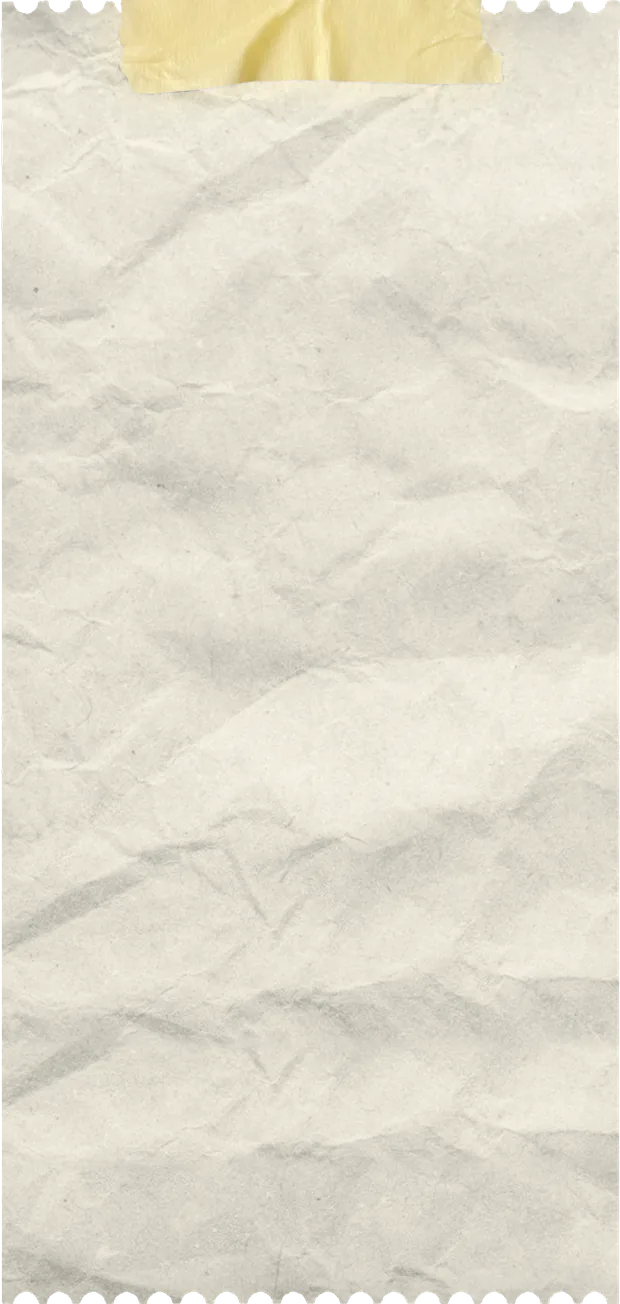
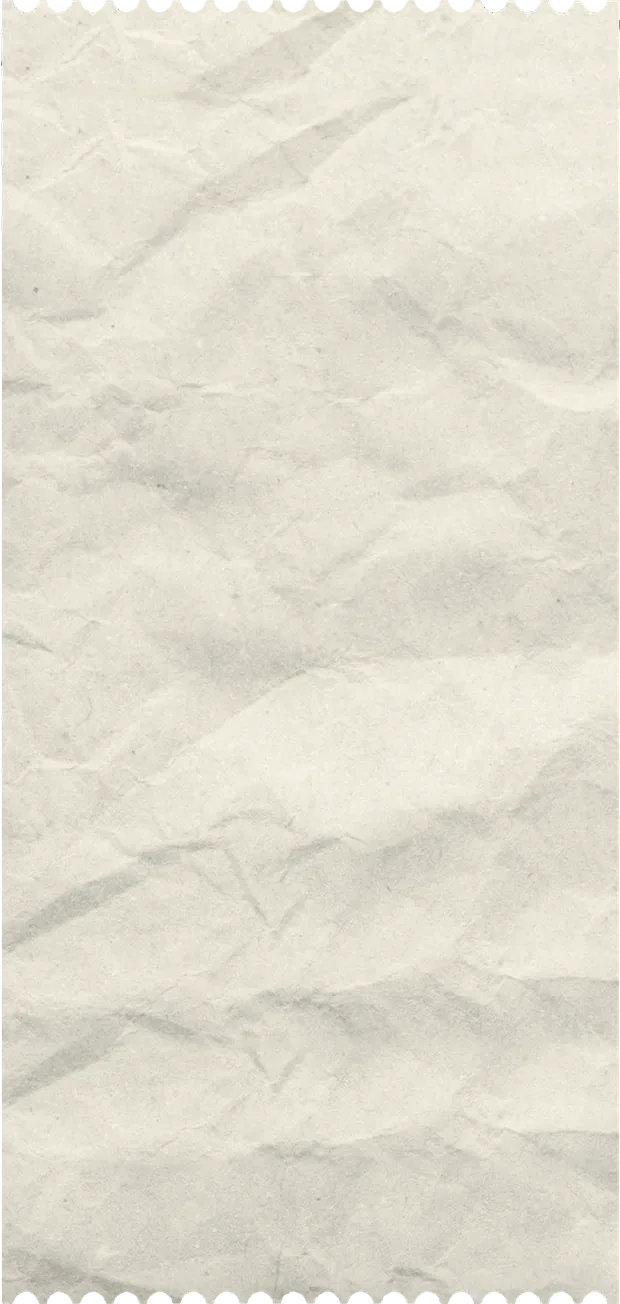
Real tape, three ways; Calendly loads sooner (#40)
Three strips cut from the full Canva tape with real torn ends (cut ends
traced from the photo's own tear). Each placement is skewed, off-center and
overhangs the edge. Tape removed from the polaroids and the second corner of
the quote sheet. The service ticket's baked-in, flat-cropped tape is gone;
its top perforations are restored from the ticket's own bottom edge.

Contact: the Calendly iframe is inserted at page load (no widget script
fetch, no scroll wait) with preconnect to calendly.com; first render 0.6 to
1s sooner in testing.

Claude-Session: https://claude.ai/code/session_011WjVxdgdgLvo2MdPv2oRQF

Changed region(s): [[0.0, 0.0, 0.95, 0.092]]

diff --git a/assets/site.css b/assets/site.css
@@ -1677,11 +1677,10 @@ footer{background:var(--ink)}
   box-shadow:0 1px 0 rgba(44,45,54,.08),0 30px 60px -28px rgba(44,45,54,.3),0 10px 22px -12px rgba(44,45,54,.12);
   font-variant-numeric:tabular-nums;position:relative;
 }
-/* two pieces of the same yellow tape as the homepage card hold the sheet up */
-.sheet::before,.sheet::after{content:"";position:absolute;top:0;width:clamp(78px,11vw,110px);aspect-ratio:500/154;
-  background:url(../images/tape-yellow.webp) center/100% 100% no-repeat;filter:drop-shadow(0 1px 1px rgba(44,45,54,.14));pointer-events:none}
-.sheet::before{left:clamp(14px,4vw,40px);transform:translateY(-45%) rotate(-4deg)}
-.sheet::after{right:clamp(14px,4vw,40px);transform:translateY(-45%) rotate(3.5deg) scaleX(-1)}
+/* one strip of tape across the top-left corner holds the sheet up */
+.sheet::before{content:"";position:absolute;top:0;left:0;width:clamp(120px,17vw,170px);aspect-ratio:430/130;pointer-events:none;
+  background:url(../images/tape-a.webp) center/100% 100% no-repeat;filter:drop-shadow(0 2px 2px rgba(44,45,54,.16));
+  transform:translate(-26%,-10%) rotate(-31deg)}
 .sh-head{
   display:grid;grid-template-columns:1fr auto;gap:24px 40px;align-items:end;
   padding-bottom:22px;border-bottom:1px solid var(--ink);margin-bottom:8px;
@@ -1855,7 +1854,7 @@ footer{background:var(--ink)}
   .crumbs{display:none}
   .pricing{padding:0}
   .sheet{max-width:none;margin:0;padding:0;box-shadow:none;background:#fff}
-  .sheet::before,.sheet::after{display:none}
+  .sheet::before{display:none}
   .sh-item{break-inside:avoid;padding:12px 0 13px}
   .sh-inc{gap:3px 20px;font-size:11.5px}
   .sh-desc{font-size:11.5px}
@@ -2035,7 +2034,7 @@ footer{background:var(--ink)}
   background:repeating-linear-gradient(to bottom,transparent 0 calc(var(--rule) - 1.6px),rgba(132,178,160,.72) calc(var(--rule) - 1.6px) var(--rule))}
 .hero-look::after{content:"";position:absolute;left:0;right:0;height:1.8px;top:calc(var(--pt) + var(--rule) - var(--lift) - 1px);z-index:0;pointer-events:none;background:rgba(228,86,112,.82)}
 .hero-look>*{position:relative;z-index:1}
-.hl-tape{position:absolute!important;left:31%;top:0;width:37.3%;aspect-ratio:500/154;transform:translateY(-40%);background:url(../images/tape-yellow.webp) center/100% 100% no-repeat;filter:drop-shadow(0 1px 1px rgba(44,45,54,.14));z-index:2!important}
+.hl-tape{position:absolute!important;left:13%;top:0;width:29%;aspect-ratio:240/130;transform:translateY(-56%) rotate(-7deg);background:url(../images/tape-b.webp) center/100% 100% no-repeat;filter:drop-shadow(0 2px 2px rgba(44,45,54,.16));z-index:2!important}
 .hl-k{font-family:var(--sans);font-size:10.5px;font-weight:600;letter-spacing:.28em;text-transform:uppercase;color:#a53c25;margin:0;line-height:var(--rule);height:var(--rule)}
 .hl-h{font-family:var(--serif-d);font-style:italic;font-weight:400;font-size:24px;line-height:var(--rule);color:var(--ink);margin:0;top:-2px}
 .hl-p{font-size:14.5px;line-height:var(--rule);color:#3d3e48;margin:0}
@@ -2145,7 +2144,7 @@ footer{background:var(--ink)}
   body.is-printing #printArea .rc-contact{display:block;margin-top:18px;text-align:center;font-size:10px;letter-spacing:.08em;color:#555}
   body.is-printing #printArea .rc-print,body.is-printing #printArea .sh-print{display:none}
   body.is-printing #printArea .sheet{width:640px}
-  body.is-printing #printArea .sheet::before,body.is-printing #printArea .sheet::after{display:none}
+  body.is-printing #printArea .sheet::before,body.is-printing #printArea .ticket::before{display:none}
   @page{margin:14mm}
 }
 .sh-print{margin-top:18px}
@@ -2339,8 +2338,9 @@ footer{background:var(--ink)}
 .ticket-wrap{position:relative}
 .ticket-wrap{container-type:inline-size;filter:drop-shadow(0 18px 20px rgba(44,45,54,.16)) drop-shadow(0 1px 1px rgba(44,45,54,.1))}
 /* a real perforated ticket (photo): taped top and perforated bottom hold their shape, the middle stretches */
-.ticket{position:relative;padding:calc(15.8cqw + 4px) 30px calc(4.2cqw + 22px);transform:rotate(-.6deg);
-  border-style:solid;border-width:0;border-image:url(../images/ticket-paper.webp) 98 0 26 0 fill / 15.8cqw 0 4.2cqw 0 stretch}
+.ticket{position:relative;padding:calc(4.2cqw + 30px) 30px calc(4.2cqw + 22px);transform:rotate(-.6deg);
+  border-style:solid;border-width:0;border-image:url(../images/ticket-paper.webp) 26 0 26 0 fill / 4.2cqw 0 4.2cqw 0 stretch}
+.ticket::before{content:"";position:absolute;top:0;right:13%;width:36%;max-width:170px;aspect-ratio:262/130;transform:translateY(-58%) rotate(5deg);background:url(../images/tape-c.webp) center/100% 100% no-repeat;pointer-events:none}
 .tk-head{display:flex;justify-content:space-between;gap:18px;align-items:flex-end;padding-bottom:14px;border-bottom:1px solid var(--ink)}
 .tk-k{display:block;font-family:var(--sans);font-weight:600;font-size:10px;letter-spacing:.3em;text-transform:uppercase;color:var(--forest-2);margin-bottom:6px}
 .tk-t{display:block;font-family:var(--serif-d);font-weight:400;font-size:clamp(20px,1.8vw,24px);line-height:1.1;color:var(--ink)}
@@ -2357,7 +2357,7 @@ footer{background:var(--ink)}
 .tk-total strong{font-family:var(--serif-d);font-size:26px;letter-spacing:0;color:var(--forest)}
 .tk-stamp{display:inline-block;white-space:nowrap;padding:6px 12px;border:2px solid #b8432a;outline:1px solid #b8432a;outline-offset:2px;color:#b8432a;font-family:var(--sans);font-weight:600;font-size:12px;letter-spacing:.32em;text-transform:uppercase;transform:rotate(-8deg);opacity:.82;mix-blend-mode:multiply}
 .tk-note{margin:16px 0 0;font-size:13px;color:var(--ink-m);line-height:1.6;font-style:italic;font-family:var(--serif)}
-@media(max-width:900px){.ticket{transform:none;padding:calc(15.8cqw + 2px) 20px calc(4.2cqw + 18px)}.tk-total{gap:10px;font-size:9px;letter-spacing:.22em}.tk-total strong{font-size:22px}.tk-stamp{font-size:10px;letter-spacing:.22em;padding:5px 9px}.tk-head{flex-direction:column;align-items:flex-start}.tk-meta{text-align:left}.tk-meta div{justify-content:flex-start}}
+@media(max-width:900px){.ticket{transform:none;padding:calc(4.2cqw + 26px) 20px calc(4.2cqw + 18px)}.tk-total{gap:10px;font-size:9px;letter-spacing:.22em}.tk-total strong{font-size:22px}.tk-stamp{font-size:10px;letter-spacing:.22em;padding:5px 9px}.tk-head{flex-direction:column;align-items:flex-start}.tk-meta{text-align:left}.tk-meta div{justify-content:flex-start}}
 @media(prefers-reduced-motion:reduce){.ticket{transform:none}}
 @media print{.ticket{transform:none;box-shadow:none;border-image:none;padding:20px}.ticket-wrap{filter:none}}
 

diff --git a/contact/index.html b/contact/index.html
@@ -22,9 +22,9 @@
 <link rel="apple-touch-icon" sizes="180x180" href="../apple-touch-icon.png"/>
 <link rel="preload" href="../fonts/jost-latin-600-normal.woff2" as="font" type="font/woff2" crossorigin>
 <link rel="preload" href="../fonts/jost-latin-400-normal.woff2" as="font" type="font/woff2" crossorigin>
+<link rel="preconnect" href="https://calendly.com"/>
 <link rel="preconnect" href="https://assets.calendly.com" crossorigin/>
-<link rel="dns-prefetch" href="//calendly.com"/>
-<link rel="stylesheet" href="../assets/site.css?v=202611080841"/>
+<link rel="stylesheet" href="../assets/site.css?v=202611080849"/>
 </head>
 <body>
 
@@ -299,15 +299,21 @@ if(form){
   try{var q=new URLSearchParams(location.search).get('site');if(q&&siteIn){q=q.trim();if(!/^https?:\/\//i.test(q))q='https://'+q;siteIn.value=q;if(proj){proj.value='Free look at my current site';syncCheck();}setTimeout(function(){var n=form.querySelector('input[name="Name"]');if(n)n.focus({preventScroll:true});},120);}}catch(x){}
   fromHash();window.addEventListener('hashchange',fromHash);
 }
-/* ── Calendly, loaded when the calendar scrolls into view ── */
+/* ── Calendly: the iframe goes in right away (no widget script to fetch first, no waiting for scroll) ── */
 (function(){
   var box=document.getElementById('bookCal');if(!box)return;
   var done=false;
   function load(){
     if(done)return;done=true;
-    var s=document.createElement('script');s.src='https://assets.calendly.com/assets/external/widget.js';s.async=true;
-    s.onload=function(){box.classList.add('is-loaded');};
-    document.head.appendChild(s);
+    var w=box.querySelector('.calendly-inline-widget'),u=w&&w.getAttribute('data-url');
+    if(u&&!w.querySelector('iframe')){
+      var f=document.createElement('iframe');
+      f.src=u+(u.indexOf('?')>-1?'&':'?')+'embed_domain='+encodeURIComponent(location.host)+'&embed_type=Inline';
+      f.title='Book a free 30-minute call';f.width='100%';f.height='100%';f.setAttribute('frameborder','0');f.setAttribute('scrolling','no');
+      f.style.cssText='width:100%;height:100%;border:0;display:block';
+      f.addEventListener('load',function(){box.classList.add('is-loaded');});
+      w.appendChild(f);
+    }
     /* Calendly pads the bottom of its month view more than the top. Trim the wrapper on that step only; later steps keep their full height. */
     var wrap=box.querySelector('.calendly-inline-widget'),onCal=true,lastH=0,TRIM=92;
     var wideMQ=window.matchMedia('(min-width:1000px)');
@@ -322,16 +328,14 @@ if(form){
       if(ev==='calendly.event_scheduled'&&window.gtag){try{gtag('event','call_booked',{page:location.pathname});}catch(x){}}
     });
   }
-  if('IntersectionObserver' in window){new IntersectionObserver(function(es,o){if(es[0].isIntersecting){o.disconnect();load();}},{rootMargin:'300px'}).observe(box);}
-  else load();
-  setTimeout(load,2500);
+  load();
 })();
 })();
 </script>
 
 
 
-<script src="../assets/site.js?v=202611080841" defer></script>
-<script src="../assets/convert.js?v=202611080841" defer></script>
+<script src="../assets/site.js?v=202611080849" defer></script>
+<script src="../assets/convert.js?v=202611080849" defer></script>
 </body>
 </html>

diff --git a/colophon/index.html b/colophon/index.html
@@ -181,10 +181,10 @@
   .desk .wrap{position:relative}
   .card{box-shadow:6px 6px 0 var(--ink),0 26px 40px -16px rgba(0,0,0,.55)}
   /* a strip of tape holds each card to the mat */
-  .card .tapebit{position:absolute;top:-16px;left:50%;width:96px;height:30px;transform:translateX(-50%) rotate(-2deg);z-index:5;pointer-events:none;
-    background:url(../images/tape-yellow.webp) center/100% 100% no-repeat;filter:drop-shadow(0 1px 1px rgba(0,0,0,.25))}
-  .card:nth-child(2) .tapebit{transform:translateX(-50%) rotate(3deg)}
-  .card:nth-child(3) .tapebit{transform:translateX(-50%) rotate(-1deg)}
+  .card .tapebit{position:absolute;top:0;left:30%;width:118px;aspect-ratio:240/130;transform:translate(-50%,-55%) rotate(-5deg);z-index:5;pointer-events:none;
+    background:url(../images/tape-b.webp) center/100% 100% no-repeat;filter:drop-shadow(0 2px 2px rgba(0,0,0,.28))}
+  .card:nth-child(2) .tapebit{left:56%;width:128px;aspect-ratio:262/130;background-image:url(../images/tape-c.webp);transform:translate(-50%,-52%) rotate(3.5deg)}
+  .card:nth-child(3) .tapebit{left:40%;width:150px;aspect-ratio:430/130;background-image:url(../images/tape-a.webp);transform:translate(-50%,-50%) rotate(-1.5deg)}
   .sec-label{font-family:'JetBrains Mono',monospace;font-size:.74rem;letter-spacing:.24em;text-transform:uppercase;color:var(--forest);
     margin-bottom:14px;display:flex;align-items:center;gap:12px}
   .sec-label::before{content:"";width:30px;height:2px;background:var(--pop)}
@@ -214,8 +214,6 @@
   /* picking the polaroid up makes the mini-site live: scroll it, click around */
   .card .polaroid:hover{transform:rotate(0deg) scale(2.7);box-shadow:8px 14px 30px rgba(44,45,54,.4);z-index:30}
   .card .polaroid:hover .shot iframe{pointer-events:auto}
-  .card .polaroid::after{content:"";position:absolute;top:-10px;left:50%;transform:translateX(-50%) rotate(-3deg);
-    width:54px;height:17px;background:url(../images/tape-yellow.webp) center/100% 100% no-repeat}
   .card .polaroid .shot{width:106px;height:80px;overflow:hidden;background:#fff}
   .card .polaroid .shot iframe{width:1200px;height:906px;border:0;transform:scale(.08833);transform-origin:0 0;pointer-events:none}
   .card .polaroid .cap{display:block;font-family:'JetBrains Mono',monospace;font-size:7px;letter-spacing:.1em;text-transform:uppercase;color:#6b6f66;text-align:center;padding-top:5px}
@@ -661,6 +659,6 @@
     if(snav){snav.querySelectorAll('.mob-menu a').forEach(function(a){a.addEventListener('click',function(){snav.classList.remove('open');});});}
   })();
 </script>
-<script src="../assets/convert.js?v=202611080841" defer></script>
+<script src="../assets/convert.js?v=202611080849" defer></script>
 </body>
 </html>

diff --git a/channel-0/index.html b/channel-0/index.html
@@ -12,7 +12,7 @@
 <link rel="apple-touch-icon" sizes="180x180" href="../apple-touch-icon.png"/>
 <link rel="preload" href="../fonts/jost-latin-400-normal.woff2" as="font" type="font/woff2" crossorigin>
 <link rel="preload" href="../fonts/dm-serif-display-latin-400-normal.woff2" as="font" type="font/woff2" crossorigin>
-<link rel="stylesheet" href="../assets/site.css?v=202611080841"/>
+<link rel="stylesheet" href="../assets/site.css?v=202611080849"/>
 <style>
   body{background:#14181a;color:#e9e4d6}
   .z-top{display:flex;justify-content:space-between;align-items:center;padding:18px var(--gut);font-family:var(--sans);font-size:11px;letter-spacing:.3em;text-transform:uppercase;color:#a6ff9f}
@@ -114,6 +114,6 @@
 
 <p class="z-foot">That&rsquo;s all for tonight. <a href="../">Back to the beginning</a>.</p>
 
-<script src="../assets/convert.js?v=202611080841" defer></script>
+<script src="../assets/convert.js?v=202611080849" defer></script>
 </body>
 </html>

diff --git a/journal/counseling-website-design-page-by-page/index.html b/journal/counseling-website-design-page-by-page/index.html
@@ -25,7 +25,7 @@
 <link rel="apple-touch-icon" sizes="180x180" href="../../apple-touch-icon.png"/>
 <link rel="preload" href="../../fonts/jost-latin-600-normal.woff2" as="font" type="font/woff2" crossorigin>
 <link rel="preload" href="../../fonts/jost-latin-400-normal.woff2" as="font" type="font/woff2" crossorigin>
-<link rel="stylesheet" href="../../assets/site.css?v=202611080841"/>
+<link rel="stylesheet" href="../../assets/site.css?v=202611080849"/>
 </head>
 <body>
 
@@ -223,7 +223,7 @@
 }
 </script>
 
-<script src="../../assets/site.js?v=202611080841" defer></script>
-<script src="../../assets/convert.js?v=202611080841" defer></script>
+<script src="../../assets/site.js?v=202611080849" defer></script>
+<script src="../../assets/convert.js?v=202611080849" defer></script>
 </body>
 </html>

diff --git a/journal/do-you-need-a-blog-on-your-therapy-website/index.html b/journal/do-you-need-a-blog-on-your-therapy-website/index.html
@@ -25,7 +25,7 @@
 <link rel="apple-touch-icon" sizes="180x180" href="../../apple-touch-icon.png"/>
 <link rel="preload" href="../../fonts/jost-latin-600-normal.woff2" as="font" type="font/woff2" crossorigin>
 <link rel="preload" href="../../fonts/jost-latin-400-normal.woff2" as="font" type="font/woff2" crossorigin>
-<link rel="stylesheet" href="../../assets/site.css?v=202611080841"/>
+<link rel="stylesheet" href="../../assets/site.css?v=202611080849"/>
 </head>
 <body>
 
@@ -247,7 +247,7 @@
 }
 </script>
 
-<script src="../../assets/site.js?v=202611080841" defer></script>
-<script src="../../assets/convert.js?v=202611080841" defer></script>
+<script src="../../assets/site.js?v=202611080849" defer></script>
+<script src="../../assets/convert.js?v=202611080849" defer></script>
 </body>
 </html>

diff --git a/journal/how-clients-find-a-therapist-online/index.html b/journal/how-clients-find-a-therapist-online/index.html
@@ -25,7 +25,7 @@
 <link rel="apple-touch-icon" sizes="180x180" href="../../apple-touch-icon.png"/>
 <link rel="preload" href="../../fonts/jost-latin-600-normal.woff2" as="font" type="font/woff2" crossorigin>
 <link rel="preload" href="../../fonts/jost-latin-400-normal.woff2" as="font" type="font/woff2" crossorigin>
-<link rel="stylesheet" href="../../assets/site.css?v=202611080841"/>
+<link rel="stylesheet" href="../../assets/site.css?v=202611080849"/>
 </head>
 <body>
 
@@ -229,7 +229,7 @@
 }
 </script>
 
-<script src="../../assets/site.js?v=202611080841" defer></script>
-<script src="../../assets/convert.js?v=202611080841" defer></script>
+<script src="../../assets/site.js?v=202611080849" defer></script>
+<script src="../../assets/convert.js?v=202611080849" defer></script>
 </body>
 </html>

diff --git a/journal/how-much-does-a-therapist-website-cost/index.html b/journal/how-much-does-a-therapist-website-cost/index.html
@@ -25,7 +25,7 @@
 <link rel="apple-touch-icon" sizes="180x180" href="../../apple-touch-icon.png"/>
 <link rel="preload" href="../../fonts/jost-latin-600-normal.woff2" as="font" type="font/woff2" crossorigin>
 <link rel="preload" href="../../fonts/jost-latin-400-normal.woff2" as="font" type="font/woff2" crossorigin>
-<link rel="stylesheet" href="../../assets/site.css?v=202611080841"/>
+<link rel="stylesheet" href="../../assets/site.css?v=202611080849"/>
 </head>
 <body>
 
@@ -218,7 +218,7 @@
 }
 </script>
 
-<script src="../../assets/site.js?v=202611080841" defer></script>
-<script src="../../assets/convert.js?v=202611080841" defer></script>
+<script src="../../assets/site.js?v=202611080849" defer></script>
+<script src="../../assets/convert.js?v=202611080849" defer></script>
 </body>
 </html>

diff --git a/journal/how-to-choose-a-therapist-website-designer/index.html b/journal/how-to-choose-a-therapist-website-designer/index.html
@@ -25,7 +25,7 @@
 <link rel="apple-touch-icon" sizes="180x180" href="../../apple-touch-icon.png"/>
 <link rel="preload" href="../../fonts/jost-latin-600-normal.woff2" as="font" type="font/woff2" crossorigin>
 <link rel="preload" href="../../fonts/jost-latin-400-normal.woff2" as="font" type="font/woff2" crossorigin>
-<link rel="stylesheet" href="../../assets/site.css?v=202611080841"/>
+<link rel="stylesheet" href="../../assets/site.css?v=202611080849"/>
 </head>
 <body>
 
@@ -236,7 +236,7 @@
 }
 </script>
 
-<script src="../../assets/site.js?v=202611080841" defer></script>
-<script src="../../assets/convert.js?v=202611080841" defer></script>
+<script src="../../assets/site.js?v=202611080849" defer></script>
+<script src="../../assets/convert.js?v=202611080849" defer></script>
 </body>
 </html>

diff --git a/journal/how-to-tell-if-your-website-looks-ai-generated/index.html b/journal/how-to-tell-if-your-website-looks-ai-generated/index.html
@@ -25,7 +25,7 @@
 <link rel="apple-touch-icon" sizes="180x180" href="../../apple-touch-icon.png"/>
 <link rel="preload" href="../../fonts/jost-latin-600-normal.woff2" as="font" type="font/woff2" crossorigin>
 <link rel="preload" href="../../fonts/jost-latin-400-normal.woff2" as="font" type="font/woff2" crossorigin>
-<link rel="stylesheet" href="../../assets/site.css?v=202611080841"/>
+<link rel="stylesheet" href="../../assets/site.css?v=202611080849"/>
 </head>
 <body>
 
@@ -203,7 +203,7 @@
 }
 </script>
 
-<script src="../../assets/site.js?v=202611080841" defer></script>
-<script src="../../assets/convert.js?v=202611080841" defer></script>
+<script src="../../assets/site.js?v=202611080849" defer></script>
+<script src="../../assets/convert.js?v=202611080849" defer></script>
 </body>
 </html>

diff --git a/journal/i-googled-myself-so-you-dont-have-to/index.html b/journal/i-googled-myself-so-you-dont-have-to/index.html
@@ -25,7 +25,7 @@
 <link rel="apple-touch-icon" sizes="180x180" href="../../apple-touch-icon.png"/>
 <link rel="preload" href="../../fonts/jost-latin-600-normal.woff2" as="font" type="font/woff2" crossorigin>
 <link rel="preload" href="../../fonts/jost-latin-400-normal.woff2" as="font" type="font/woff2" crossorigin>
-<link rel="stylesheet" href="../../assets/site.css?v=202611080841"/>
+<link rel="stylesheet" href="../../assets/site.css?v=202611080849"/>
 </head>
 <body>
 
@@ -229,7 +229,7 @@
 }
 </script>
 
-<script src="../../assets/site.js?v=202611080841" defer></script>
-<script src="../../assets/convert.js?v=202611080841" defer></script>
+<script src="../../assets/site.js?v=202611080849" defer></script>
+<script src="../../assets/convert.js?v=202611080849" defer></script>
 </body>
 </html>

diff --git a/journal/i-ran-the-numbers-on-my-own-pricing-page/index.html b/journal/i-ran-the-numbers-on-my-own-pricing-page/index.html
@@ -25,7 +25,7 @@
 <link rel="apple-touch-icon" sizes="180x180" href="../../apple-touch-icon.png"/>
 <link rel="preload" href="../../fonts/jost-latin-600-normal.woff2" as="font" type="font/woff2" crossorigin>
 <link rel="preload" href="../../fonts/jost-latin-400-normal.woff2" as="font" type="font/woff2" crossorigin>
-<link rel="stylesheet" href="../../assets/site.css?v=202611080841"/>
+<link rel="stylesheet" href="../../assets/site.css?v=202611080849"/>
 </head>
 <body>
 
@@ -208,7 +208,7 @@
 }
 </script>
 
-<script src="../../assets/site.js?v=202611080841" defer></script>
-<script src="../../assets/convert.js?v=202611080841" defer></script>
+<script src="../../assets/site.js?v=202611080849" defer></script>
+<script src="../../assets/convert.js?v=202611080849" defer></script>
 </body>
 </html>
